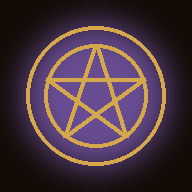
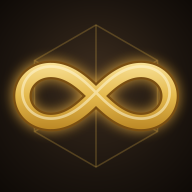
Redesign UI Cleanup

diff --git a/index.html b/index.html
@@ -1,9 +1,10 @@
 <!DOCTYPE html>
 <html lang="en"><head><meta charset="utf-8">
 <meta name="viewport" content="width=device-width,initial-scale=1">
-<title>The Arcane Table</title>
+<title>Infini DnD</title>
 <link rel="manifest" href="manifest.json">
-<meta name="theme-color" content="#2a170d">
+<meta name="theme-color" content="#15110d">
+<link rel="icon" href="icon-192.png">
 <meta name="mobile-web-app-capable" content="yes">
 <meta name="apple-mobile-web-app-capable" content="yes">
 <meta name="apple-mobile-web-app-status-bar-style" content="black-translucent">
@@ -171,16 +172,6 @@ summary h2{display:flex;align-items:center;gap:.4em}
 
 .sheet .wt{margin:-.3em 0 .5em;font:.85em Almendra,serif;color:#5a3a1a}
 
-.card.r-uncommon{border-color:#4f8a3a}.card.r-rare{border-color:#3a64a8}.card.r-veryrare{border-color:#7b4aa8}.card.r-legendary{border-color:#c0701c}
-.card .stk{margin:0;align-self:center;font:italic clamp(11px,1.8vmin,18px) Almendra,serif;color:#5a3a1a}
-.sheet .rar{margin:0 0 .3em;font:700 .75em Cinzel,serif;letter-spacing:.06em;color:#6a4a22}.rar.r-uncommon{color:#3f7a2c}.rar.r-rare{color:#2f569a}.rar.r-veryrare{color:#6b3c98}.rar.r-legendary{color:#a85a12}
-.itf{display:flex;flex-direction:column;gap:6px}.itf .row{gap:6px}.itf input,.itf select,.itf textarea{font-size:15px;padding:6px 8px;min-height:36px}
-.itg{display:grid;grid-template-columns:1fr 1fr;gap:6px}@media(max-width:640px){.itg{grid-template-columns:1fr}}
-.itf .itfile{font-size:14px;display:flex;align-items:center;gap:6px}.itf .itfile input{min-height:0;padding:2px;font-size:13px;max-width:210px}
-#shi .itf{margin:-4px 0 10px;padding:10px;border:2px solid var(--hl);border-top:0;border-radius:0 0 4px 4px;background:#f6edcf}
-.qrow.itr{padding:6px 8px;margin:5px 0;gap:6px}.qrow.itr.ed{border-color:var(--hl);border-radius:4px 4px 0 0}
-.itr .qt p.dd{display:-webkit-box;-webkit-line-clamp:2;-webkit-box-orient:vertical;overflow:hidden;white-space:normal;font-size:15px}
-.qrow.out{opacity:.5}.qrow .stkb{display:inline-flex;align-items:center;gap:6px;font:700 14px Cinzel,serif}
 .card .wgt{margin:0;align-self:center;font:clamp(12px,2vmin,20px) Almendra,serif;color:#5a3a1a}
 
 .esm{width:15px;height:15px;margin-left:5px;vertical-align:-2px;color:var(--hl)}
@@ -251,7 +242,8 @@ input[type=checkbox]{min-height:0;width:20px;height:20px;padding:0;flex:none}
 .pvwin{position:fixed;right:12px;bottom:74px;z-index:40;width:min(44vw,520px);display:none;border:3px solid var(--gold2);border-radius:8px;background:#0b0704;box-shadow:0 10px 30px #000d;overflow:hidden}
 .pvwin.on{display:block}
 .pvwin.big{width:min(94vw,900px)}
-@media(max-width:760px){.pvwin{width:94vw;right:3vw}}
+@media(max-width:760px){.pvwin{left:8px;right:8px;width:auto;bottom:70px}.pvbar b{display:none}}
+.pvbar,.pvtools{flex-wrap:wrap}.pvbar .btn,.pvtools .btn{white-space:nowrap;flex:none}.pvwin{max-width:calc(100vw - 16px);contain:layout paint}.pvbtn{opacity:.92}
 .pvbar{display:flex;align-items:center;gap:6px;padding:4px 8px;background:linear-gradient(#4a2c18,#2a170d);color:var(--gold);font:700 13px Cinzel,serif}
 .pvbar .btn{min-height:30px;padding:2px 10px;font-size:12px}
 .pvbox{position:relative;width:100%;background:#000;overflow:hidden}
@@ -341,6 +333,17 @@ body.intro #stage>:not(#intro){visibility:hidden}
 #stage.night #npcs figure.mon.free{filter:none}
 #stage.night #npcs figure.mon.free img{filter:brightness(.66) saturate(.85)}
 .tile u{position:absolute;top:4px;left:38px;width:30px;height:30px;line-height:28px;text-align:center;text-decoration:none;border-radius:50%;background:#2a170dd9;color:var(--gold);border:1px solid var(--gold2)}
+body.dmv::before{background:radial-gradient(ellipse at 50% -10%,#33261b 0,#1a130d 50%,#0d0906 100%)}
+body.dmv .wrap{max-width:1000px;padding:14px}
+body.dmv h1{font-size:clamp(24px,4.4vw,36px);margin:.1em 0;text-shadow:0 0 14px #f0a93a66,0 2px 0 #000}
+body.dmv h1 .inf{font-family:Georgia,serif;font-size:1.15em;margin-right:.1em}
+body.dmv .panel{background:#e9dcb8;border:1px solid #a98a47;border-radius:12px;padding:14px 16px;margin:12px 0;box-shadow:0 3px 14px #000b}
+body.dmv .panel::before{display:none}
+body.dmv summary h2{font-size:18px}
+body.dmv .btn{border-radius:8px;border-width:1px;box-shadow:0 2px 0 #000a}
+body.dmv .tile{border-radius:10px;border-width:2px}
+.card .qty{margin:0;font:700 clamp(12px,2vmin,20px) Cinzel,serif;color:#6b2d12}
+.card.out{opacity:.5}
 </style></head>
 <body><div id="app"></div>
 <script type="module">
@@ -352,32 +355,13 @@ const CFG={apiKey:"AIzaSyCZJdQ3Lq9VuMkOj2OzhJ1FhRPY9LGNaKE",authDomain:"dm-app-b
 
 const $=s=>document.querySelector(s),app=$('#app');
 const esc=s=>String(s).replace(/[&<>"]/g,c=>({'&':'&amp;','<':'&lt;','>':'&gt;','"':'&quot;'}[c]));
-// shop items: rarity, stock and pictures
-const RAR={common:'Common',uncommon:'Uncommon',rare:'Rare','very rare':'Very Rare',legendary:'Legendary'};
-const normR=v=>{const t=String(v||'').trim().toLowerCase().replace(/\s+/g,' ').replace('veryrare','very rare');return RAR[t]?t:''};
-const normS=v=>{const t=String(v??'').trim();if(!t||/^(-|∞|inf|unlimited)$/i.test(t))return null;const n=parseInt(t,10);return isNaN(n)?null:Math.max(0,n)};
-const rCls=i=>i.rarity&&i.rarity!=='common'?' r-'+i.rarity.replace(' ',''):'';
-const slug=t=>String(t||'').trim().toLowerCase().replace(/['’]/g,'').replace(/[^a-z0-9.]+/g,'-').replace(/^-+|-+$/g,'');
-const PIC_EXT=['png','jpg','webp'];
-const picList=t=>{const f=slug(t);if(!f)return[];return /\.[a-z0-9]{3,4}$/.test(f)?['items/'+f]:PIC_EXT.map(e=>'items/'+f+'.'+e)};
-// Picture field first, then an uploaded picture, then a file named after the item (Health Potion -> items/health-potion.png, .jpg or .webp)
-const iPics=i=>i.pic?(/[\/:]/.test(i.pic)?[i.pic]:picList(i.pic)):i.img?[i.img]:picList(i.name);
-const iPic=i=>iPics(i)[0]||'';
-// <img> that tries the next file type when one is missing; mode: ph = show ✦, rm = remove image, rmp = remove its frame
-window.picNext=(el,mode)=>{const r=(el.dataset.alt||'').split('|').filter(Boolean);if(r.length){el.dataset.alt=r.slice(1).join('|');el.src=r[0];return}
-  if(mode==='ph')el.outerHTML='<span class="ph">✦</span>';else if(mode==='rmp')el.parentNode.remove();else el.remove()};
-const picTag=(i,mode,st)=>{const l=iPics(i);return l.length?`<img src="${esc(l[0])}" data-alt="${esc(l.slice(1).join('|'))}" alt="" onerror="picNext(this,'${mode}')"${st?` style="${st}"`:''}>`:''};
-const forSale=i=>i.stock!==0;
-
-const itemCard=i=>{return `<div class="card${rCls(i)}" data-i="${i.id}"><div class="pic">${picTag(i,'ph')||'<span class="ph">✦</span>'}</div><h3>${esc(i.name)}</h3>${i.cost?`<p class="cost">${esc(i.cost)}</p>`:''}${i.weight?`<p class="wgt">${esc(i.weight)}</p>`:''}${typeof i.stock==='number'?`<p class="stk">${i.stock} left</p>`:''}</div>`};
-const itemSheet=it=>{const p=picTag(it,'rmp');return `<div class="sheet"><div class="sin">${p?`<div class="pic2">${p}</div>`:''}<h4>${esc(it.name)}</h4>${it.rarity?`<div class="rar${rCls(it)}">${RAR[it.rarity]||''}</div>`:''}${it.cost?`<div class="cost">${esc(it.cost)}</div>`:''}${it.weight?`<div class="wt">Weight: ${esc(it.weight)}</div>`:''}${it.desc?`<p>${esc(it.desc)}</p>`:''}${it.rules?`<div class="lbl">Statblock</div><p>${esc(it.rules)}</p>`:''}</div></div>`};
 let unsubs=[];
 if('serviceWorker' in navigator)navigator.serviceWorker.register('./sw.js').catch(()=>{});
-if(CFG.projectId==="PASTE"){app.innerHTML='<div class="wrap"><h1>The Arcane Table</h1><div class="panel"><h2>Firebase is not set up yet</h2><p>Open index.html and paste your Firebase web app config into the CFG object near the top of the script.</p></div></div>';throw 0}
+if(CFG.projectId==="PASTE"){app.innerHTML='<div class="wrap"><h1>Infini DnD</h1><div class="panel"><h2>Firebase is not set up yet</h2><p>Open index.html and paste your Firebase web app config into the CFG object near the top of the script.</p></div></div>';throw 0}
 const db=getFirestore(initializeApp(CFG));
 
 function route(){
-  unsubs.forEach(u=>u());unsubs=[];
+  unsubs.forEach(u=>u());unsubs=[];document.body.classList.remove('dmv');
   let [v,c,pm]=location.hash.slice(1).split('/');
   if(v==='last')v=localStorage.getItem('view')||'display';   // the installed app opens on the view this device used last
   const code=(c||localStorage.getItem('code')||'').toLowerCase();
@@ -390,7 +374,7 @@ function route(){
 
 
 function home(){
-  app.innerHTML=`<div class="wrap"><h1>The Arcane Table</h1>
+  app.innerHTML=`<div class="wrap"><h1>Infini DnD</h1>
   <div class="panel"><h2>Session code</h2>
   <p class="note">Pick any word. Every device that uses the same code sees the same table.</p>
   <div class="row"><input id="code" placeholder="e.g. dragonkeep" value="${esc(localStorage.getItem('code')||'')}" autocapitalize="off">
@@ -420,9 +404,9 @@ async function display(code,pv){
   let IT=[],SH={},sid=null,su1=null,su2=null,lo=null,dis=null,prevS=null,gk='',dk='';
   const renderShop=()=>{
     $('#shopt').textContent=SH.name||'';
-    {const gh=IT.filter(forSale).map(itemCard).join('');if(gh!==gk){gk=gh;$('#shopg').innerHTML=gh}}
-    const oid=lo||(d.shopItemId&&d.shopItemId!==dis?d.shopItemId:null),it=IT.filter(forSale).find(x=>x.id===oid);
-    {const dh=it?itemSheet(it):'';if(dh!==dk){dk=dh;$('#shopd').innerHTML=dh}}
+    {const gh=IT.map(i=>`<div class="card${i.qty===0?' out':''}" data-i="${i.id}"><div class="pic">${i.img?`<img src="${i.img}" alt="">`:'<span class="ph">✦</span>'}</div><h3>${esc(i.name)}</h3>${i.cost?`<p class="cost">${esc(i.cost)}</p>`:''}${i.weight?`<p class="wgt">${esc(i.weight)}</p>`:''}${i.qty!=null?`<p class="qty">${i.qty>0?'×'+i.qty:'Sold out'}</p>`:''}</div>`).join('');if(gh!==gk){gk=gh;$('#shopg').innerHTML=gh}}
+    const oid=lo||(d.shopItemId&&d.shopItemId!==dis?d.shopItemId:null),it=IT.find(x=>x.id===oid);
+    {const dh=it?`<div class="sheet"><div class="sin">${it.img?`<div class="pic2"><img src="${it.img}" alt=""></div>`:''}<h4>${esc(it.name)}</h4>${it.cost?`<div class="cost">${esc(it.cost)}</div>`:''}${it.weight?`<div class="wt">Weight: ${esc(it.weight)}</div>`:''}${it.desc?`<p>${esc(it.desc)}</p>`:''}${it.rules?`<div class="lbl">Statblock</div><p>${esc(it.rules)}</p>`:''}</div></div>`:'';if(dh!==dk){dk=dh;$('#shopd').innerHTML=dh}}
     $('#shopd').classList.toggle('on',!!it);
   };
   const watchShop=(id,rt)=>{
@@ -825,7 +809,7 @@ const WXS=[
  {id:'r2',n:['Rain','Snow'],i:['rain','snow'],cl:.7,p:2},
  {id:'r3',n:['Heavy rain','Heavy snow'],i:['rain','snow'],cl:.85,p:3}
 ];
-const VER='2026-11-07 ak';
+const VER='2026-11-05 ag';
 const WINDS=['Still','Breeze','Gust','Storm'];
 const WXFX={};
 const WI={sun:'<circle cx="12" cy="12" r="4.5"/><path d="M12 2v3M12 19v3M2 12h3M19 12h3M5 5l2 2M17 17l2 2M19 5l-2 2M7 17l-2 2"/>',
@@ -1145,10 +1129,10 @@ function wxBoxHTML(cur,w,L,role,day,sel,area,open){
 }
 function player(code){
   app.onclick=null;
-  app.innerHTML='<div class="pv"><div class="pvh"><h1>The Arcane Table</h1><div class="pvt"><button class="btn sm" data-t="quest">Quest</button><button class="btn sm" data-t="weather">Weather</button><button class="btn sm" data-t="shops">Shops</button><button class="btn sm alt" data-vm="1">Views</button></div></div><div id="pvb"></div><div id="pvd"></div></div>';
+  app.innerHTML='<div class="pv"><div class="pvh"><h1>Infini DnD</h1><div class="pvt"><button class="btn sm" data-t="quest">Quest</button><button class="btn sm" data-t="weather">Weather</button><button class="btn sm" data-t="shops">Shops</button><button class="btn sm alt" data-vm="1">Views</button></div></div><div id="pvb"></div><div id="pvd"></div></div>';
   let d={},tab=sessionStorage.getItem('pvtab')||'quest',Q=null,qid=null,qu=null,psel=null,open=null,fxSel=null,last='',lastD='';
   const SHP={},subs={};
-  const card=itemCard;
+  const card=i=>`<div class="card${i.qty===0?' out':''}" data-i="${i.id}"><div class="pic">${i.img?`<img src="${i.img}" alt="">`:'<span class="ph">✦</span>'}</div><h3>${esc(i.name)}</h3>${i.cost?`<p class="cost">${esc(i.cost)}</p>`:''}${i.weight?`<p class="wgt">${esc(i.weight)}</p>`:''}${i.qty!=null?`<p class="qty">${i.qty>0?'×'+i.qty:'Sold out'}</p>`:''}</div>`;
   const render=()=>{
     document.querySelectorAll('.pvt [data-t]').forEach(b=>b.classList.toggle('alt',b.dataset.t!==tab));
     const keys=d.pshops||[];let h='',sheet='';
@@ -1157,9 +1141,9 @@ function player(code){
     else if(!keys.length)h='<div class="pvempty">No shops are open.</div>';
     else{
       const k=keys.includes(psel)?psel:keys[0],S=SHP[k]||{name:'',items:[]};
-      h=(keys.length>1?'<div class="row" style="margin-bottom:10px">'+keys.map(x=>`<button class="btn sm ${x===k?'':'alt'}" data-s="${x}">${esc((SHP[x]||{}).name||'...')}</button>`).join('')+'</div>':'')+`<div class="pvname">${esc(S.name)}</div><div class="pvg">${S.items.filter(forSale).map(card).join('')||'<div class="pvempty">Sold out.</div>'}</div>`;
-      const it=S.items.filter(forSale).find(x=>x.id===open);
-      if(it)sheet=itemSheet(it);
+      h=(keys.length>1?'<div class="row" style="margin-bottom:10px">'+keys.map(x=>`<button class="btn sm ${x===k?'':'alt'}" data-s="${x}">${esc((SHP[x]||{}).name||'...')}</button>`).join('')+'</div>':'')+`<div class="pvname">${esc(S.name)}</div><div class="pvg">${S.items.map(card).join('')}</div>`;
+      const it=S.items.find(x=>x.id===open);
+      if(it)sheet=`<div class="sheet"><div class="sin">${it.img?`<div class="pic2"><img src="${it.img}" alt=""></div>`:''}<h4>${esc(it.name)}</h4>${it.cost?`<div class="cost">${esc(it.cost)}</div>`:''}${it.weight?`<div class="wt">Weight: ${esc(it.weight)}</div>`:''}${it.desc?`<p>${esc(it.desc)}</p>`:''}${it.rules?`<div class="lbl">Statblock</div><p>${esc(it.rules)}</p>`:''}</div></div>`;
     }
     const key=tab+'|'+h;if(key!==last){last=key;$('#pvb').innerHTML=h}
     if(sheet!==lastD){lastD=sheet;$('#pvd').innerHTML=sheet;$('#pvd').classList.toggle('on',!!sheet)}
@@ -1247,6 +1231,7 @@ async function shrink(file,max){
 }
 
 function dm(code){
+  document.body.classList.add('dmv');
   const L=doc(db,'sessions',code,'live','state'),IM=collection(db,'sessions',code,'images'),QC=collection(db,'sessions',code,'quests');
   let live={},imgs=[],qs=[],shops=[],items=[],selShop=localStorage.getItem('selShop'),editIt=null,edit=null,MO=null,MS={},view={x:.5,y:.5,ft:60},mode=null,tmr=0,dirty=false;
   const link=location.origin+location.pathname+'#display/'+code,plink=location.origin+location.pathname+'#player/'+code;
@@ -1254,7 +1239,7 @@ function dm(code){
   <button id="pvbtn" class="pvbtn alt" data-a="pvtoggle" title="Preview of the players' screen"><svg viewBox="0 0 24 24" fill="none" stroke="currentColor" stroke-width="1.9" stroke-linecap="round" stroke-linejoin="round"><rect x="2" y="4" width="20" height="13" rx="2"/><path d="M8 21h8M12 17v4"/></svg></button>
   <div id="pvwin" class="pvwin"><div class="pvbar"><b>Players' screen</b><span style="flex:1"></span><button class="btn sm alt" id="pvmode" data-a="pvmode" style="display:none">Players' view</button><button class="btn sm alt" data-a="pvsize">Size</button><button class="btn sm alt" data-a="pvtoggle">Close</button></div><div id="pvbox" class="pvbox"><iframe id="pvf" title="Players' screen"></iframe><canvas id="mc"></canvas></div><div id="pvtools" class="pvtools" style="display:none"><button class="btn sm alt" data-a="mlight">Add light</button><button class="btn sm alt" data-a="mrm">Remove light</button><button class="btn sm alt" data-a="mreset">Reset explored</button><label><input id="mrev" type="checkbox"> Reveal all</label><span class="edit" style="display:contents"><label>Squares <input id="msq" type="number" min="5" value="30"></label><label>Light ft <input id="mft" type="number" min="5" value="30"></label></span></div></div>
   
-  <div class="row" style="justify-content:space-between"><div><h1>The Arcane Table</h1><div class="note" style="margin:0">Version ${VER}</div></div><div class="row"><button class="btn sm alt" data-a="vm">Views</button><button class="btn sm alt" id="pm" data-a="pm">Hide editing</button></div></div>
+  <div class="row" style="justify-content:space-between"><div><h1><span class="inf">∞</span> Infini DnD</h1><div class="note edit" style="margin:0">Version ${VER}</div></div><div class="row"><button class="btn sm alt edit" data-a="vm">Views</button><button class="btn sm alt" id="pm" data-a="pm">Hide editing</button></div></div>
   <details class="panel" id="d-ctl" open><summary><h2>Controls</h2></summary><div class="row">
   <button class="btn" id="cv-bg" data-a="vbg">Background</button><button class="btn" id="cv-map" data-a="vmap">Map</button><button class="btn" id="cv-shop" data-a="vshop">Shop</button><button class="btn" id="cv-board" data-a="vboard">Quest board</button></div>
   <div class="row" style="margin-top:8px"><button class="btn" id="ct-wx" data-a="wxon">Weather</button><button class="btn" id="ct-night" data-a="night">Day</button><button class="btn" id="ct-tok" data-a="tok">Tokens</button><button class="btn" id="ct-snd" data-a="snd">Sound</button><button class="btn alt" id="ct-mu" data-a="mtoggle" disabled>Play music</button><button class="btn" id="ct-in" data-a="inplay" disabled>Intro</button><input id="sndvol" type="range" min="0" max="100" value="70" title="Tablet volume" style="width:110px">
@@ -1267,7 +1252,7 @@ function dm(code){
   <details class="panel" id="d-wx" open><summary><h2>Weather <span class="eye" id="e-wx"><svg viewBox="0 0 24 24" fill="none" stroke="currentColor" stroke-width="2" stroke-linecap="round" stroke-linejoin="round"><path d="M1 12s4-7 11-7 11 7 11 7-4 7-11 7S1 12 1 12z"/><circle cx="12" cy="12" r="3"/></svg></span></h2></summary>
   <div id="wxres"></div>
   <div class="row" style="margin-top:10px"><button class="btn" id="wxds" data-a="wxd" data-id="s">Sun</button><button class="btn" id="wxdc" data-a="wxd" data-id="c">Cloud</button><button class="btn" id="wxdr" data-a="wxd" data-id="r">Rain</button><button class="btn" data-a="wxwr">Wind</button></div>
-  <div class="row" style="margin-top:8px"><button class="btn sm" data-a="wxquick">New day</button><button class="btn sm alt" data-a="wxundo">Undo</button><button class="btn sm alt edit" data-a="wxrefill">Refill</button><select id="wxsel"></select><select id="wxarea"></select></div>
+  <div class="row" style="margin-top:8px"><button class="btn sm" data-a="wxquick">New day</button><button class="btn sm alt" data-a="wxundo">Undo</button><button class="btn sm alt edit" data-a="wxrefill">Refill</button><select id="wxsel" class="edit"></select><select id="wxarea"></select></div>
   <div class="edit"><div id="wxl" style="margin-top:10px"></div><div class="row" id="wxw"></div></div>
   <details class="edit" id="d-wxe" style="margin-top:14px"><summary><h2 style="font-size:17px">Edit season presets</h2></summary>
   <div class="row"><input id="pn" placeholder="Name"><label><input id="pc" type="checkbox"> Cold season</label><label><input id="ph" type="checkbox"> Hot season</label></div>
@@ -1298,24 +1283,24 @@ function dm(code){
   <p class="note edit" style="margin:0 0 8px">Use a shop for stores, loot or party inventory. Tap a card on the tablet to read it.</p>
   <div class="row edit"><input id="shn" placeholder="Shop or loot list name"><label><input id="shsh" type="checkbox" checked> Shared</label><button class="btn" data-a="shadd">Add shop</button></div>
   <div class="row" id="shl" style="margin:10px 0"></div><div class="row" id="shb"></div>
-  <details class="edit" id="d-add" style="margin-top:10px"><summary><h2 style="font-size:17px">Add item</h2></summary><div id="itHome"><div class="edit itf" id="itf">
-  <div class="row"><input id="itn" placeholder="Item name" style="flex:3 1 160px"><input id="itc" placeholder="Cost" style="flex:1 1 80px"><input id="itw" placeholder="Weight" style="flex:1 1 70px"></div>
-  <div class="row"><select id="ity" style="flex:1 1 110px"><option value="">Rarity: none</option><option value="common">Common</option><option value="uncommon">Uncommon</option><option value="rare">Rare</option><option value="very rare">Very Rare</option><option value="legendary">Legendary</option></select><input id="its" type="number" min="0" placeholder="Stock (empty = unlimited)" style="flex:1 1 120px"><input id="itp" placeholder="Picture (empty = item name)" style="flex:2 1 170px"></div>
-  <div class="itg"><textarea id="itd" rows="3" placeholder="Description"></textarea><textarea id="itr" rows="3" placeholder="Statblock"></textarea></div>
-  <textarea id="itx" rows="1" placeholder="DM notes (never shown to players)"></textarea>
-  <div class="row"><button class="btn sm" id="itb" data-a="itsave">Add item</button><button class="btn sm alt" id="itcx" data-a="itcancel" style="display:none">Cancel</button><label class="itfile">Upload picture <input id="iti" type="file" accept="image/*"></label><span class="note" id="itm"></span></div>
-  </div></div></details>
+  <div class="edit" style="margin-top:10px"><div class="row"><input id="itn" placeholder="Item name" style="flex:2 1 160px"><input id="itc" placeholder="Cost, e.g. 50 gp" style="flex:1 1 110px"><input id="itw" placeholder="Weight" style="flex:1 1 90px"></div>
+  <textarea id="itd" rows="2" placeholder="Description" style="margin-top:8px"></textarea><textarea id="itr" rows="2" placeholder="Statblock" style="margin-top:8px"></textarea><textarea id="itx" rows="2" placeholder="DM notes (never shown to players)" style="margin-top:8px"></textarea>
+  <div class="row" style="margin:8px 0"><input id="iti" type="file" accept="image/*"><button class="btn" id="itb" data-a="itsave">Add item</button></div><p class="note" id="itm"></p></div>
   <details class="edit" id="d-imp" style="margin-top:10px"><summary><h2 style="font-size:17px">Import items</h2></summary>
-  <p class="note">Rows from your sheet: Name, Cost, Weight, Description, Statblock, DM notes, Rarity, Stock, Picture. The last three are optional. Existing names are updated, and empty optional cells keep the current value.</p>
+  <p class="note">Rows from your sheet: Name, Cost, Weight, Description, Statblock, DM notes. Existing names are updated.</p>
   <textarea id="imt" rows="6" placeholder="Paste rows here"></textarea>
   <div class="row" style="margin-top:8px"><button class="btn sm" data-a="imp">Import</button><button class="btn sm alt" data-a="exp">Copy shop as table</button></div><div class="row" style="margin-top:8px"><input id="imf" type="file" accept=".json"><button class="btn sm" data-a="impf">Import file</button></div><p class="note" id="imm"></p></details>
   <div id="shi"></div></details></div>`;
   if(localStorage.getItem('play')==='1'){$('.wrap').classList.add('play');$('#pm').textContent='Show editing'}
   document.querySelectorAll('details[id]').forEach(el=>{const k='open-'+el.id,v=localStorage.getItem(k);if(v!==null)el.open=v==='1';el.addEventListener('toggle',()=>localStorage.setItem(k,el.open?'1':'0'))});
+  // backgrounds, maps, NPCs and monsters: what is on screen first, then what was picked most recently (kept in a small document)
+  const UF=doc(db,'sessions',code,'usage','last');let UD={};
+  const useId=id=>{UD={...UD,[id]:Date.now()};setDoc(UF,{[id]:UD[id]},{merge:true})};
   const draw=()=>{
     const tile=(i,on,a)=>`<div class="tile ${on?'on':''} ${a==='npc'?'npc':''} ${i.type==='monster'?'mon':''}" tabindex="0" data-a="${a}" data-id="${i.id}"><img src="${i.data}" alt=""><span>${esc(i.name)}</span><i class="edit" data-a="ren" data-id="${i.id}" title="Rename">✎</i>${i.type==='monster'?`<u class="edit" data-a="monset" data-id="${i.id}" title="Look and effects">✦</u>`:''}<b class="edit" data-a="del" data-id="${i.id}" title="Delete">×</b></div>`;
     const bg=imgs.filter(i=>i.type==='background'),np=imgs.filter(i=>i.type==='npc'),mo=imgs.filter(i=>i.type==='monster'),mp=imgs.filter(i=>i.type==='map');
-    const onN=i=>(live.visibleNpcIds||[]).includes(i.id);bg.sort((a,b)=>(live.backgroundId===b.id)-(live.backgroundId===a.id));np.sort((a,b)=>onN(b)-onN(a));mo.sort((a,b)=>onN(b)-onN(a));mp.sort((a,b)=>(live.mapId===b.id)-(live.mapId===a.id));
+    const ud=i=>UD[i.id]||0,onN=i=>(live.visibleNpcIds||[]).includes(i.id);
+    bg.sort((a,b)=>((live.backgroundId===b.id)-(live.backgroundId===a.id))||ud(b)-ud(a));np.sort((a,b)=>(onN(b)-onN(a))||ud(b)-ud(a));mo.sort((a,b)=>(onN(b)-onN(a))||ud(b)-ud(a));mp.sort((a,b)=>((live.mapId===b.id)-(live.mapId===a.id))||ud(b)-ud(a));
     $('#bgs').innerHTML=bg.map(i=>tile(i,live.backgroundId===i.id,'bg')).join('')||'<p class="note">No backgrounds yet.</p>';
     $('#nps').innerHTML=np.map(i=>tile(i,(live.visibleNpcIds||[]).includes(i.id),'npc')).join('')||'<p class="note">No NPCs yet.</p>';
     $('#mos').innerHTML=mo.map(i=>tile(i,(live.visibleNpcIds||[]).includes(i.id),'npc')).join('')||'<p class="note">No monsters yet.</p>';
@@ -1546,6 +1531,7 @@ function dm(code){
   $('#pn').onchange=e=>updPre({name:e.target.value.trim()||'Preset'});
   unsubs.push(onSnapshot(ID,s=>{IC={slides:[],secs:6,music:'',open:'fog',...(s.exists()?s.data():{})};inDraw()}));
   unsubs.push(onSnapshot(MF,s=>{MFD=s.exists()?s.data():{};monDraw()}));
+  unsubs.push(onSnapshot(UF,s=>{UD=s.exists()?s.data():{};draw()}));
   $('#monfx').onchange=e=>{const t=e.target,id=$('#monfx').dataset.id;if(!t.dataset||!t.dataset.k||!id)return;const cur={bd:'dark',fx:'',amb:'',wx:'',...(MFD[id]||{})};cur[t.dataset.k]=t.value;MFD={...MFD,[id]:cur};setDoc(MF,{[id]:cur},{merge:true})};
   $('#inopen').onchange=e=>saveI({open:e.target.value});
   $('#insecs').onchange=e=>saveI({secs:Math.min(20,Math.max(3,+e.target.value||6))});
@@ -1588,18 +1574,8 @@ function dm(code){
     $('#csh').textContent='('+shops.length+')';
     $('#shl').innerHTML=shops.map(x=>`<button class="btn sm ${x.id===selShop?'':'alt'}" data-a="shsel" data-id="${x.id}">${esc(x.name)}${x._r==='_shared'?' <small>shared</small>':''}${(live.pshops||[]).includes((x._r||code)+':'+x.id)?EYE_SM:''} (${items.filter(i=>i.shopId===x.id).length})</button>`).join('')||'<span class="note">No shops yet.</span>';
     $('#shb').innerHTML=sel?bt('shpl',sel.id,(live.pshops||[]).includes((sel._r||code)+':'+sel.id)?'Hide from players':'Show to players',!(live.pshops||[]).includes((sel._r||code)+':'+sel.id))+bt('shren',sel.id,'Rename',1,1)+bt('shdel',sel.id,'Delete shop',1,1):'';
-    const shH=sel?items.filter(i=>i.shopId===sel.id).map(i=>`<div class="qrow itr ${on&&live.shopItemId===i.id?'on':''} ${i.stock===0?'out':''} ${editIt===i.id?'ed':''}" data-row="${i.id}"><div class="row" style="flex:1 1 220px;flex-wrap:nowrap">${picTag(i,'rm','width:44px;height:44px;flex:none;object-fit:cover;border-radius:4px;border:2px solid var(--gold2)')}<div class="qt"><b>${esc(i.name)}</b> ${esc(i.cost||'')}${i.weight?' / '+esc(i.weight):''}${i.rarity?' <span class="rar'+rCls(i)+'" style="font:700 12px Cinzel,serif">'+RAR[i.rarity]+'</span>':''}${i.stock===0?' <small>(sold out, hidden from players)</small>':''}${i.desc?`<p class="dd">${esc(i.desc)}</p>`:''}${on&&live.shopItemId===i.id&&i.rules?`<p><b>Statblock:</b> ${esc(i.rules)}</p>`:''}${NT[i.id]?`<p style="color:#8c2a12"><b>DM:</b> ${esc(NT[i.id])}</p>`:''}</div></div><div class="row">${typeof i.stock==='number'?`<span class="stkb">${bt('stk-',i.id,'−',1)}${i.stock}${bt('stk+',i.id,'+',1)}</span>`:''}${bt('itshow',i.id,on&&live.shopItemId===i.id?'Hide':'Details')}${editIt===i.id?'':bt('itedit',i.id,'Edit',1,1)}${bt('itdel',i.id,'Delete',1,1)}</div></div>`).join('')||'<p class="note">No items yet.</p>':'';
-    if(shH!==shiK){shiK=shH;const f=itForm();if(f&&f.parentNode!==$('#itHome'))$('#itHome').appendChild(f);$('#shi').innerHTML=shH}   // only redraw the list when it changed, so typing in the form isn't interrupted
-    placeForm();
+    $('#shi').innerHTML=sel?items.filter(i=>i.shopId===sel.id).map(i=>`<div class="qrow ${on&&live.shopItemId===i.id?'on':''}"><div class="row" style="flex:1 1 220px;flex-wrap:nowrap">${i.img?`<img src="${i.img}" alt="" style="width:52px;height:52px;object-fit:cover;border-radius:4px;border:2px solid var(--gold2)">`:''}<div class="qt"><b>${esc(i.name)}</b> ${esc(i.cost||'')}${i.weight?' / '+esc(i.weight):''}<p>${esc(i.desc||'')}</p>${i.qty!=null?`<p style="margin:2px 0;font-weight:700">Stock: ${i.qty}</p>`:''}${on&&live.shopItemId===i.id&&i.rules?`<p><b>Statblock:</b> ${esc(i.rules)}</p>`:''}${NT[i.id]?`<p style="color:#8c2a12"><b>DM:</b> ${esc(NT[i.id])}</p>`:''}</div></div><div class="row"><span class="edit" style="display:inline-flex;align-items:center;gap:6px">${bt('qtym',i.id,'−',1)}<b style="min-width:1.6em;text-align:center">${i.qty==null?'–':i.qty}</b>${bt('qtyp',i.id,'+',1)}</span>${bt('itshow',i.id,on&&live.shopItemId===i.id?'Hide':'Details')}${bt('itedit',i.id,'Edit',1,1)}${bt('itdel',i.id,'Delete',1,1)}</div></div>`).join('')||'<p class="note">No items yet.</p>':'';
   }
-  // the item form sits in "Add item", or right under the item being edited
-  var shiK,FORM;
-  function itForm(){return FORM||(FORM=$('#itf'))}   // keep a handle so the form survives list redraws
-  function placeForm(scroll){const f=itForm();if(!f)return;const row=editIt&&document.querySelector(`#shi [data-row="${editIt}"]`);
-    if(row){if(row.nextSibling!==f)row.after(f);if(scroll){f.scrollIntoView({block:'nearest',behavior:'smooth'});$('#itn').focus({preventScroll:true})}}
-    else if(f.parentNode!==$('#itHome'))$('#itHome').appendChild(f);
-    $('#itb').textContent=editIt?'Save item':'Add item';$('#itcx').style.display=editIt?'':'none'}
-  function clearForm(){['#itn','#itc','#itw','#itd','#itr','#itx','#iti','#ity','#its','#itp'].forEach(k=>$(k).value='')}
   let shS={},itS={},ntS={},NT={};
   const mergeSh=()=>{shops=[...(shS[code]||[]),...(shS._shared||[])];items=[...(itS[code]||[]),...(itS._shared||[])];NT={...(ntS[code]||{}),...(ntS._shared||{})};if(selShop&&shS[code]&&shS._shared&&!shops.some(x=>x.id===selShop))selShop=null};
   [code,'_shared'].forEach(r=>{
@@ -1653,10 +1629,12 @@ function dm(code){
   const set=o=>setDoc(L,o,{merge:true});
   app.onclick=async e=>{
     const t=e.target.closest('[data-a]');if(!t)return;const a=t.dataset.a,id=t.dataset.id;
+    if(a==='bg'||a==='map')useId(id);
     if(a==='bg'){if(live.backgroundId!==id&&curView()==='scene'){autoMusic(id);autoCard(id)}set({backgroundId:live.backgroundId===id?null:id,bgWx:wxOf(id),bgOff:false})}
     if(a==='npc'&&MO&&live.showMap&&!(live.visibleNpcIds||[]).includes(id)){MS.tk={...(MS.tk||{}),[id]:{x:view.x,y:view.y}};dirty=true;flush()}
     if(a==='monset'){monSel=id;monDraw()}
     if(a==='npc'){const im=imgs.find(x=>x.id===id);if(im&&im.type==='monster')monSel=id}
+    if(a==='npc')useId(id);
     if(a==='npc')set({visibleNpcIds:(live.visibleNpcIds||[]).includes(id)?arrayRemove(id):arrayUnion(id)});
     if(a==='black')set({backgroundId:null});
     if(a==='clear')set({visibleNpcIds:[]});
@@ -1700,7 +1678,7 @@ function dm(code){
     if(a==='pdup'){const n2={...curPre(),id:'p'+Date.now(),name:curPre().name+' copy'};await saveG({presets:[...G.presets,n2],cur:n2.id});syncPre(true)}
     if(a==='pdel'&&G.presets.length>1&&confirm('Delete this preset?')){const pr=G.presets.filter(p=>p.id!==G.cur);await saveG({presets:pr,cur:pr[0].id,bag:{...pr[0].d},day:0});await set({cold:!!pr[0].cold,season:seasonP(pr[0])});wxDraw();syncPre(true)}
     if(a==='shadd'){const nm=$('#shn').value.trim();if(!nm)return;const r=doc(collection(db,'sessions',$('#shsh').checked?'_shared':code,'shops'));await setDoc(r,{name:nm,created:Date.now()});selShop=r.id;localStorage.setItem('selShop',r.id);$('#shn').value='';draw()}
-    if(a==='shsel'){selShop=id;localStorage.setItem('selShop',id);if(curView()==='shop'&&live.shopId!==id)set({shopId:id,shopRoot:(shops.find(x=>x.id===id)||{})._r||code,shopItemId:null});draw()}   // shop on the tablet follows the selected shop
+    if(a==='shsel'){selShop=id;localStorage.setItem('selShop',id);draw()}
     if(a==='shshow'&&selShop){const on=live.showShop&&live.shopId===selShop;set(on?{showShop:false,shopItemId:null}:{showShop:true,shopId:selShop,shopRoot:(shops.find(x=>x.id===selShop)||{})._r||code,shopItemId:null,showBoard:false,showMap:false})}
     if(a==='shpl'){const sh=shops.find(x=>x.id===id);if(sh){const k=(sh._r||code)+':'+sh.id;set({pshops:(live.pshops||[]).includes(k)?arrayRemove(k):arrayUnion(k)})}}
     if(a==='shren'){const sh=shops.find(x=>x.id===selShop),nn=sh&&prompt('Shop name',sh.name);if(nn&&nn.trim())updateDoc(doc(db,'sessions',sh._r||code,'shops',selShop),{name:nn.trim()})}
@@ -1712,17 +1690,15 @@ function dm(code){
       if(!selShop){msg.className='note err';msg.textContent='Select or add a shop first.';return}
       if(!name){msg.className='note err';msg.textContent='Give the item a name.';return}
       try{msg.className='note';msg.textContent='Saving...';
-        const f=$('#iti').files[0],img=f?await shrink(f,480):null,body={name,cost:$('#itc').value.trim(),desc:$('#itd').value.trim(),rules:$('#itr').value.trim(),weight:$('#itw').value.trim(),rarity:normR($('#ity').value),stock:normS($('#its').value),pic:$('#itp').value.trim(),...(img?{img}:{})};
+        const f=$('#iti').files[0],img=f?await shrink(f,480):null,body={name,cost:$('#itc').value.trim(),desc:$('#itd').value.trim(),rules:$('#itr').value.trim(),weight:$('#itw').value.trim(),...(img?{img}:{})};
         const rt=editIt?((items.find(x=>x.id===editIt)||{})._r||code):((shops.find(x=>x.id===selShop)||{})._r||code),nid=editIt||doc(collection(db,'sessions',rt,'items')).id;
         if(editIt)await updateDoc(doc(db,'sessions',rt,'items',nid),body);
         else await setDoc(doc(db,'sessions',rt,'items',nid),{shopId:selShop,img:'',created:Date.now(),...body});
         await setDoc(doc(db,'sessions',rt,'notes',nid),{text:$('#itx').value.trim()});
-        const was=editIt;editIt=null;clearForm();shopDraw();msg.textContent='Saved.';if(was){const r=document.querySelector(`#shi [data-row="${was}"]`);r&&r.scrollIntoView({block:'nearest'})}
+        editIt=null;['#itn','#itc','#itw','#itd','#itr','#itx','#iti'].forEach(k=>$(k).value='');$('#itb').textContent='Add item';msg.textContent='Saved.';
       }catch(err){msg.className='note err';msg.textContent='Could not save: '+err.message}}
-    if(a==='itedit'){const i=items.find(x=>x.id===id);if(i){editIt=id;$('#itn').value=i.name||'';$('#itc').value=i.cost||'';$('#itd').value=i.desc||'';$('#itr').value=i.rules||'';$('#itw').value=i.weight||'';$('#itx').value=NT[id]||'';$('#ity').value=i.rarity||'';$('#its').value=typeof i.stock==='number'?i.stock:'';$('#itp').value=i.pic||'';$('#itm').textContent='';shopDraw();placeForm(true)}}
-    if(a==='itcancel'){const was=editIt;editIt=null;clearForm();$('#itm').textContent='';shopDraw();const r=was&&document.querySelector(`#shi [data-row="${was}"]`);r&&r.scrollIntoView({block:'nearest'})}
-    if(a==='stk-'||a==='stk+'){const i=items.find(x=>x.id===id);if(i&&typeof i.stock==='number'){const n=Math.max(0,i.stock+(a==='stk+'?1:-1));if(n!==i.stock)updateDoc(doc(db,'sessions',i._r||code,'items',id),{stock:n})}}
-    if(a==='itdel'&&confirm('Delete this item?')){if(editIt===id){editIt=null;clearForm();placeForm()}const rt=(items.find(x=>x.id===id)||{})._r||code;deleteDoc(doc(db,'sessions',rt,'items',id));deleteDoc(doc(db,'sessions',rt,'notes',id))}
+    if(a==='itedit'){const i=items.find(x=>x.id===id);if(i){editIt=id;$('#itn').value=i.name||'';$('#itc').value=i.cost||'';$('#itd').value=i.desc||'';$('#itr').value=i.rules||'';$('#itw').value=i.weight||'';$('#itx').value=NT[id]||'';$('#itb').textContent='Save item';$('#itn').focus()}}
+    if(a==='itdel'&&confirm('Delete this item?')){if(editIt===id){editIt=null;$('#itb').textContent='Add item'}const rt=(items.find(x=>x.id===id)||{})._r||code;deleteDoc(doc(db,'sessions',rt,'items',id));deleteDoc(doc(db,'sessions',rt,'notes',id))}
     if(a==='imp'){
       const msg=$('#imm'),sh=shops.find(x=>x.id===selShop);
       if(!sh){msg.className='note err';msg.textContent='Select a shop first.';return}
@@ -1731,7 +1707,6 @@ function dm(code){
       msg.className='note';msg.textContent='Importing...';let add=0,upd=0;
       try{for(const r of rows){const name=(r[0]||'').trim();if(!name)continue;
           const body={name,cost:(r[1]||'').trim(),weight:(r[2]||'').trim(),desc:(r[3]||'').trim(),rules:(r[4]||'').trim()},note=(r[5]||'').trim();
-          if((r[6]||'').trim())body.rarity=normR(r[6]);if((r[7]||'').trim())body.stock=normS(r[7]);if((r[8]||'').trim())body.pic=r[8].trim();
           const ex=items.find(i=>i.shopId===sh.id&&(i.name||'').trim().toLowerCase()===name.toLowerCase());
           let nid;if(ex){nid=ex.id;await updateDoc(doc(db,'sessions',sh._r,'items',nid),body);upd++}
           else{nid=doc(collection(db,'sessions',sh._r,'items')).id;await setDoc(doc(db,'sessions',sh._r,'items',nid),{shopId:sh.id,img:'',created:Date.now()+add,...body});add++}
@@ -1750,7 +1725,6 @@ function dm(code){
           map[nm]=sh}
         for(const x of arr){const sh=map[(x.shop||'Imported').trim()],name=(x.name||'').trim();if(!name)continue;
           const body={name,cost:x.cost||'',weight:x.weight||'',desc:x.description||x.desc||'',rules:x.rules||''};
-          if(x.rarity)body.rarity=normR(x.rarity);if(x.stock!==undefined&&x.stock!=='')body.stock=normS(x.stock);if(x.pic||x.image)body.pic=String(x.pic||x.image).trim();
           const ex=items.find(i=>i._r==='_shared'&&i.shopId===sh.id&&(i.name||'').trim().toLowerCase()===name.toLowerCase());let nid;
           if(ex){nid=ex.id;await updateDoc(doc(db,'sessions','_shared','items',nid),body);upd++}
           else{nid=doc(collection(db,'sessions','_shared','items')).id;await setDoc(doc(db,'sessions','_shared','items',nid),{shopId:sh.id,img:'',created:Date.now()+add,...body});add++}
@@ -1760,9 +1734,10 @@ function dm(code){
     if(a==='exp'){
       const sh=shops.find(x=>x.id===selShop),msg=$('#imm');if(!sh)return;
       const q=v=>/[\t\n\r"]/.test(v)?'"'+v.replace(/"/g,'""')+'"':v;
-      const t=['Name\tCost\tWeight\tDescription\tStatblock\tDM notes\tRarity\tStock\tPicture',...items.filter(i=>i.shopId===sh.id).map(i=>[i.name,i.cost,i.weight,i.desc,i.rules,NT[i.id],RAR[i.rarity]||'',typeof i.stock==='number'?String(i.stock):'',i.pic].map(v=>q(v||'')).join('\t'))].join('\n');
+      const t=['Name\tCost\tWeight\tDescription\tStatblock\tDM notes',...items.filter(i=>i.shopId===sh.id).map(i=>[i.name,i.cost,i.weight,i.desc,i.rules,NT[i.id]].map(v=>q(v||'')).join('\t'))].join('\n');
       try{await navigator.clipboard.writeText(t);msg.className='note';msg.textContent='Copied '+(t.split('\n').length-1)+' items. Paste them into your sheet.'}
       catch(e){$('#imt').value=t;msg.className='note';msg.textContent='Clipboard blocked. The table is in the box above.'}}
+    if(a==='qtyp'||a==='qtym'){const i=items.find(x=>x.id===id);if(i){const n=Math.max(0,(i.qty==null?0:+i.qty)+(a==='qtyp'?1:-1));i.qty=n;updateDoc(doc(db,'sessions',i._r||code,'items',id),{qty:n});draw()}}
     if(a==='itshow'){const i=items.find(x=>x.id===id);if(i){const on=live.showShop&&live.shopId===i.shopId;set(on?{shopItemId:live.shopItemId===id?null:id}:{showShop:true,shopId:i.shopId,shopRoot:i._r,shopItemId:id,showBoard:false,showMap:false})}}
     if(a==='map'){if(curView()==='map'){autoMusic(id);autoCard(id)}set({mapId:id,mapWx:wxOf(id),mapView:{x:.5,y:.5,ft:60}})}
     if(a==='mshow'&&live.mapId)set({showMap:!live.showMap,...(!live.showMap?{showBoard:false,showShop:false}:{})});

diff --git a/sw.js b/sw.js
@@ -1,4 +1,4 @@
-const C='arcane-table-v3';
+const C='infini-dnd-v4';
 self.addEventListener('install',e=>{self.skipWaiting();e.waitUntil(caches.open(C).then(c=>c.addAll(['./','./index.html','./icon-192.png'])))});
 self.addEventListener('activate',e=>e.waitUntil(self.clients.claim()));
 self.addEventListener('fetch',e=>{
